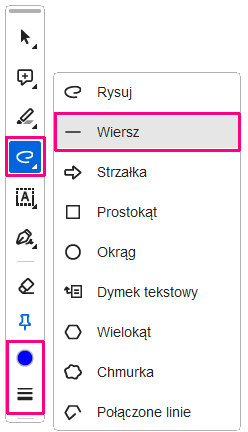
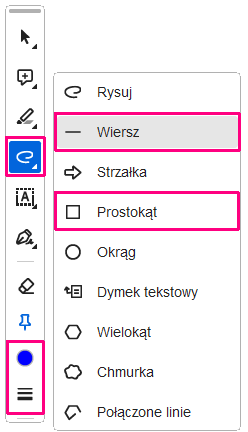
.

Changed region(s): [[0.1976, 0.4213, 0.9879, 0.5417]]

diff --git a/_posts/2024-05-16-edycja_PDF.md b/_posts/2024-05-16-edycja_PDF.md
@@ -18,7 +18,8 @@ Tutaj kilka wskazówek dotyczących edycji PDF za pomocą darmowych narzędzi
 style="float:left;width:248px;margin-right:10px;"}
 
 
-Można wybrać rysowanie linii (tu dziwna nazwa "wiersz"), a dla niej kolor biały i jak największą grubość (12 pkt). Zakreślamy fragmenty do usunięcia tak jakby korektorem tasiemkowym. 2x większą powierzchnię może pokryć prostokąt z taką białą grubą linią.  
+Można wybrać rysowanie linii (tu dziwna nazwa "wiersz"), a dla niej kolor biały i jak największą grubość (12 pkt). Zakreślamy fragmenty do usunięcia tak jakby korektorem tasiemkowym.  
+Jeszcze wygodniejsze jest wybranie prostokąta - z cienką, białą linią obramowania i białym wypełnieniem, co powala zasłaniać precyzyjnie dowolny fragment dokumentu.  
 <small>UWAGA: to świetnie działa na wydruki, ale gdy wyślemy komuś taki PDF to być może będzie on w stanie odkryć zawartość pod białą linią. No chyba, że po zmianach zrobimy ponownie wydruk do PDF (nie testowałem).</small>
 
 #### 1.2. Dopisywanie tekstu
